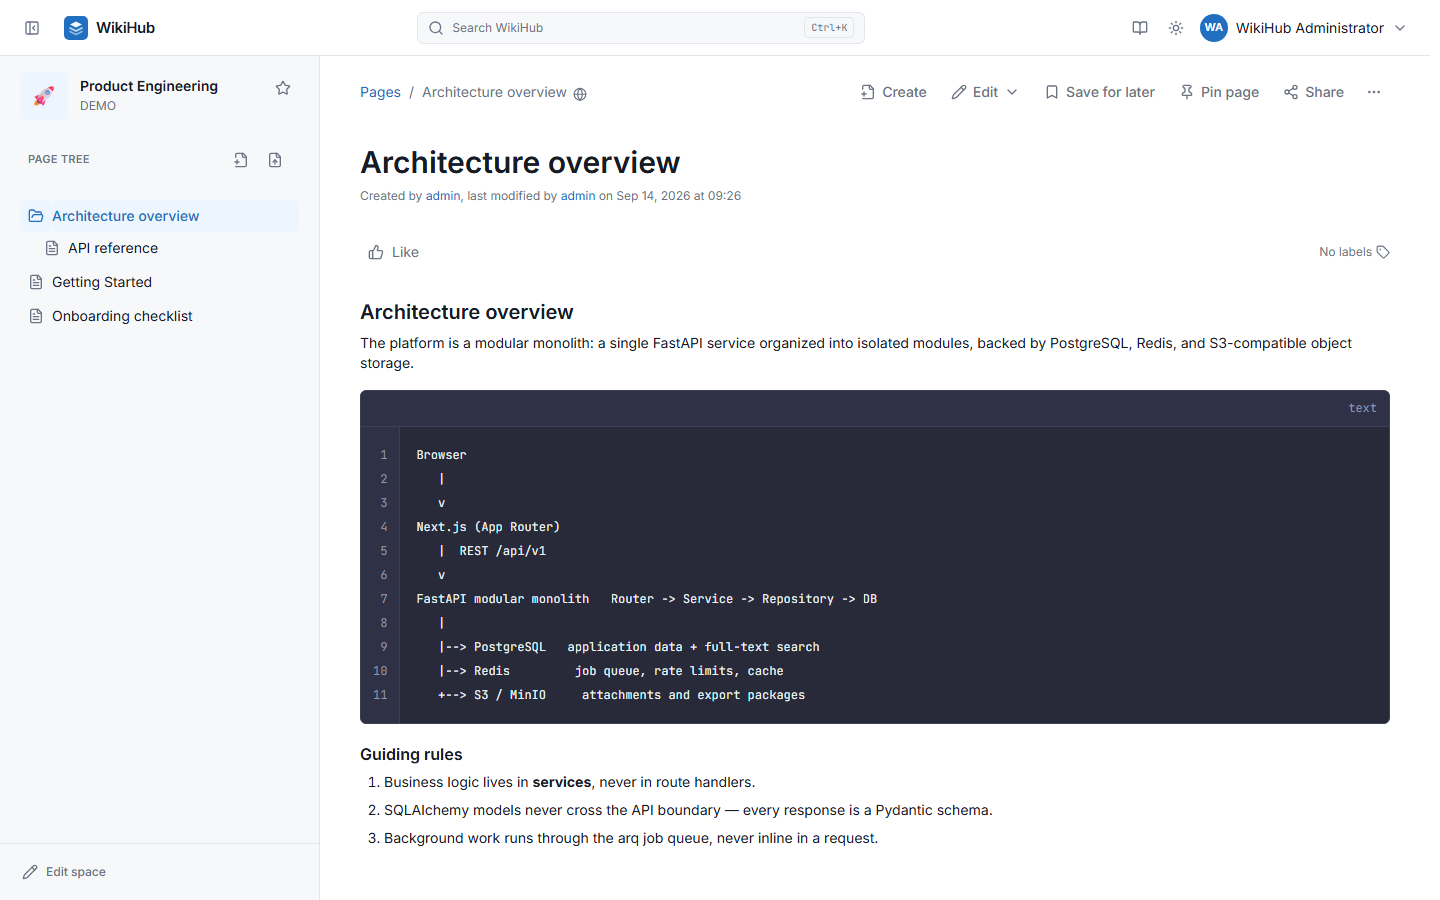
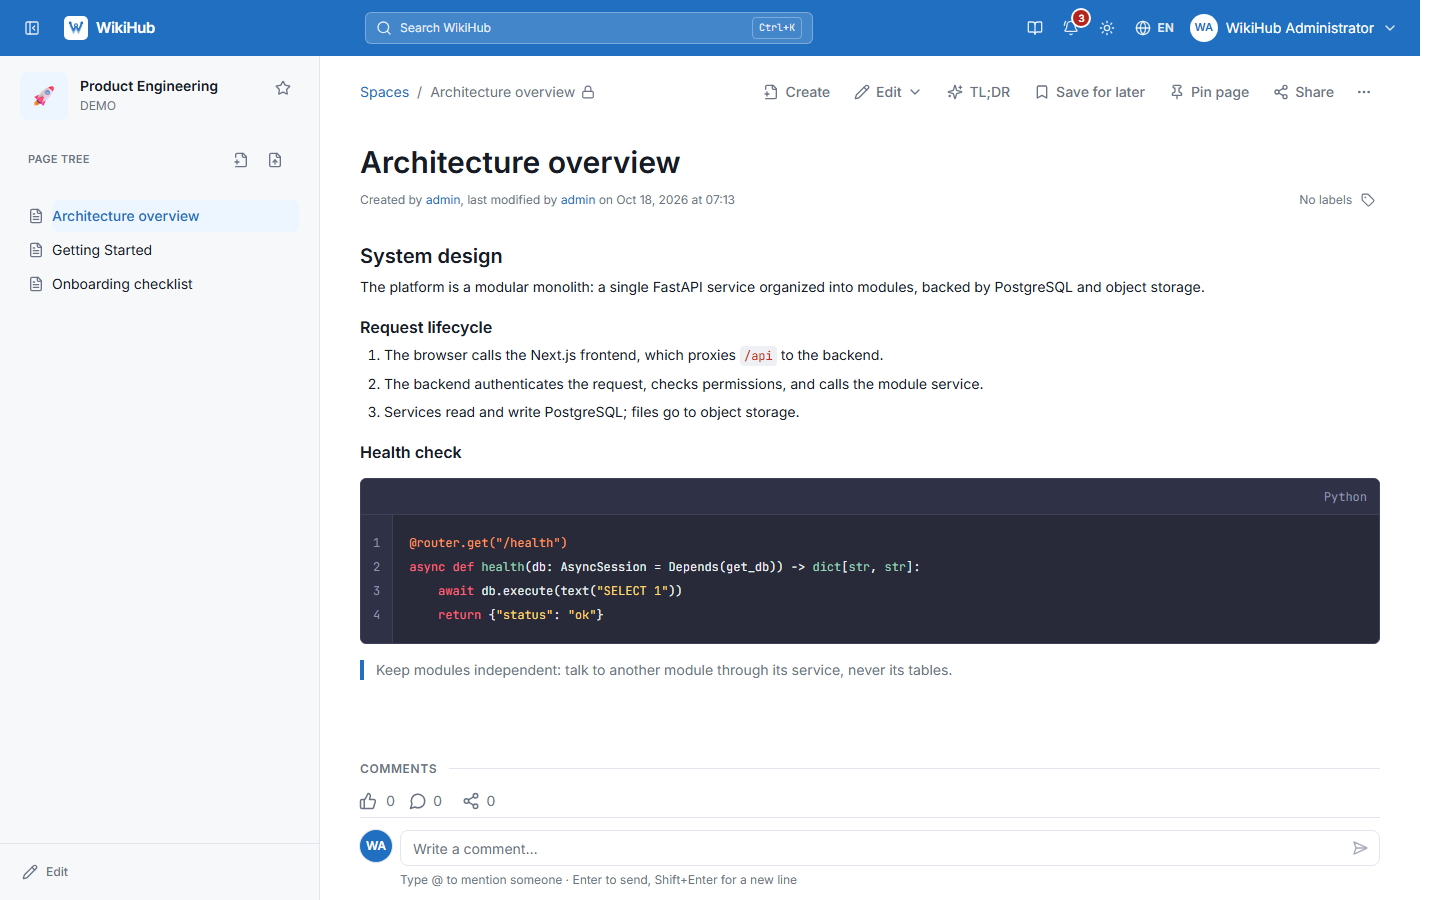
docs(demo): re-record the demo GIFs and screenshots, update both READMEs
Every capture is of the current interface, taken in a Restricted demo space.
Adds a search/commands GIF and screenshots, and a Help centre section;
the main README describes Go to shortcuts and :commands.

diff --git a/docs/demo/README.md b/docs/demo/README.md
@@ -4,147 +4,257 @@ A closer look at WikiHub than the [main README](../../README.md#-demo) has room
 for. Every image below is a real, unedited capture of a running local
 instance — nothing here is a mockup.
 
+All captures were refreshed on **18 October 2026** against the current
+interface. They were taken in a throwaway space, **Product Engineering**
+(`DEMO`), signed in as the seeded administrator, at a 1430×900 desktop window
+in light mode and English. The only thing hidden is the Next.js development
+badge, which is not part of the product. Search terms were chosen so that only
+the demo space's pages come back.
+
 - [Signing in](#signing-in)
 - [Editing a page](#editing-a-page)
 - [A page, rendered](#a-page-rendered)
 - [Code blocks](#code-blocks)
-- [Global search](#global-search)
+- [Global search, shortcuts & commands](#global-search-shortcuts--commands)
 - [Likes, pins & saved-for-later](#likes-pins--saved-for-later)
 - [Drafts & recovery](#drafts--recovery)
 - [Permissions & access control](#permissions--access-control)
+- [Help centre](#help-centre)
 - [Backup & migration](#backup--migration)
 - [Theme & branding](#theme--branding)
 - [Language switching](#language-switching)
 - [Small screens](#small-screens)
+- [AI features](#ai-features)
 
 ## Signing in
 
-<img src="assets/screenshot-login.png" alt="WikiHub sign-in screen" width="720">
+<img src="assets/screenshot-login.png" alt="The WikiHub sign-in screen: a brand-blue cover with the headline, a capture of a WikiHub page, and three features; the sign-in form on the right" width="720">
 
-The sign-in screen carries whatever brand color and logo an administrator has
-configured under **Administration → Settings → Theme & Branding** (see
-[Theme & branding](#theme--branding) below) — this is the default WikiHub Blue
-palette.
+The sign-in screen is in two halves. The cover on the left is in the
+workspace's brand colour. It holds the headline, a capture of a real WikiHub
+page (the same one shown under [A page, rendered](#a-page-rendered)), and three
+features: *Ask your wiki*, *Organised in spaces*, *Control and history*. On a
+short window the cover drops the least important text rather than scrolling,
+and on a phone only the form is shown.
+
+The form takes a username or an e-mail. **Contact an administrator** opens a
+request form for people who cannot sign in. The colour and logo follow
+**Administration → Settings → Theme & Branding** (see
+[Theme & branding](#theme--branding)); this is the default WikiHub Blue.
 
 ## Editing a page
 
-<img src="assets/demo-editor.gif" alt="The full WikiHub flow: signing in, Home, opening a space, opening a page, editing it with the slash menu, and saving" width="720">
+<img src="assets/demo-editor.gif" alt="Signing in, landing in the Product Engineering space, opening Getting Started from the page tree, choosing Edit then Normal editor, typing /callout, picking Callout: Tip, typing into it, and saving" width="720">
 
-The full path, start to finish: **sign in** → **Home** (the personal
-activity feed, on its "My activity" tab) → jump into a space via **global
-search** → open a page from its **page tree** → **Edit** → place the cursor
-at the end, type `/callout` to open the slash-command menu, pick
-**Callout**, and type into it → **Save**. The green toast in the last frame
-is the real save confirmation, not staged for the recording.
+The full path, start to finish: **sign in** (here straight into the space, via
+the `?next=` link) → open **Getting Started** from the **page tree** →
+**Edit ▾ → Normal editor** → at the end of the page type `/callout` to open the
+slash-command menu, pick **Callout: Tip**, and type into it → **Save**. The
+toast in the last frame is the real save confirmation.
 
-The same `/` menu inserts headings, tables, code blocks, images, to-do lists,
-toggles, dividers, and links to other pages — see the in-app **Help** center
-for the full command reference.
+The **Edit ▾** menu also opens the page as **Markdown source** or **HTML
+source**. While editing, the bar above the page has **Live preview**,
+**Auto-save on** (the draft is kept on the server as you type), **Save draft**,
+**Save** (marked `*` while there are unsaved changes) and **Cancel**. The same
+`/` menu inserts headings, tables, code blocks, images, to-do lists, toggles,
+dividers, and links to other pages. The in-app **Help** centre has the full
+command reference.
 
 ## A page, rendered
 
-<img src="assets/screenshot-page.png" alt="A WikiHub page showing headings, a blockquote callout, a bulleted list, and a data table" width="720">
+<img src="assets/screenshot-page.png" alt="The Getting Started page: headings, a quote, a bulleted list and a table, with the space's page tree on the left and the page actions above the title" width="720">
 
 A typical page: headings, a blockquote-style callout, a bulleted list, and a
-data table, all in the same document. The page tree on the left reflects the
-space's hierarchy — pages can be nested arbitrarily deep and moved anywhere,
-including into a different space.
+data table, all in the same document. Above the title sit the page actions:
+**Create**, **Edit ▾**, **TL;DR** (an AI summary of the page),
+**Save for later**, **Pin page**, **Share** and **⋯** for the rest (move,
+history, access, labels, attachments, export, delete). Under the title are who
+created and last changed it, and its labels. The foot of the page holds
+reactions and comments.
+
+The space's own sidebar shows its identity and its **page tree**. Pages can be
+nested arbitrarily deep and moved anywhere, including into another space. The
+padlock beside the breadcrumb says the space is Restricted.
+
+The top bar is the same on every screen: the sidebar toggle, the logo,
+**Search** (`Ctrl`+`K`), then **Help**, **Notifications** (with an unread
+count), **Theme** (light/dark), **Language** (`EN`/`VI`) and the account menu.
+When an administrator has set up the AI assistant, a chat button also appears
+there.
 
 ## Code blocks
 
-<img src="assets/screenshot-architecture.png" alt="A page with a syntax-highlighted code block describing the system architecture" width="720">
+<img src="assets/screenshot-architecture.png" alt="The Architecture overview page with a numbered list and a Python code block with syntax highlighting, line numbers and a language label" width="720">
 
 Code blocks get syntax highlighting, line numbers, a language label, and a
-one-click copy button — useful for runbooks, architecture notes, and anything
+one-click copy button. That suits runbooks, architecture notes, and anything
 else that mixes prose with real code or config.
 
-## Global search
+## Global search, shortcuts & commands
 
-<img src="assets/screenshot-search.png" alt="The global search modal, opened with Ctrl+K, showing matching pages with highlighted terms" width="720">
+<img src="assets/demo-search.gif" alt="Opening search with Ctrl+K, searching for onboarding, typing keyboard shortcuts to get a Go to shortcut, typing : to list commands, then :help change password to search the Help guides and open one" width="720">
 
-`Ctrl`/`⌘` + `K` from anywhere in the app opens global search. It matches
-against space names/keys/descriptions and page titles/content, highlights the
-matched term in context, and only ever shows results the signed-in user has
-permission to see.
+`Ctrl`/`⌘`+`K` from anywhere in the app opens one search box that does three
+things.
+
+**Find spaces and pages.** It matches space names, keys and descriptions, and
+page titles and content. The matched words are highlighted, and only results
+the signed-in user may see are listed. Accents are optional (`tai khoan` finds
+*tài khoản*), and common English/Vietnamese pairs count as the same word.
+
+<img src="assets/screenshot-search.png" alt="Search for onboarding: one space and three pages from the demo space, with the matched word highlighted" width="720">
+
+**Go to a place in the app.** The words people use for a task bring up a
+**Go to** section above the results: *change password* or *đổi mật khẩu* opens
+the password form in your account, *manage users* opens Administration →
+Users, *keyboard shortcuts* opens the shortcut settings. Administration
+shortcuts appear only for accounts that may open them.
+
+<img src="assets/screenshot-search-goto.png" alt="Search for keyboard shortcuts: a Go to section with a single Keyboard shortcuts entry" width="720">
+
+**Run a command.** Starting with `:` turns the box into a command list, and the
+wiki is not searched:
+
+| Command | What it does |
+| --- | --- |
+| `:help` | Open the Help centre; `:help <words>` searches the Help guides |
+| `:account`, `:password`, `:security`, `:sessions`, `:shortcuts` | Open that part of your account (`:password` opens the form directly) |
+| `:home`, `:spaces`, `:recent`, `:favorites`, `:saved`, `:issues`, `:contact` | Open that page |
+| `:chat` | Open the AI chat panel |
+| `:ask <question>` | Ask the AI and read the answer in the search box |
+| `:users`, `:groups`, `:manage-spaces`, `:manage-issues`, `:stats`, `:server`, `:settings`, `:backup`, `:storage`, `:mail`, `:ai` | Administration pages, for those who may open them |
+
+The first letters are enough (`:he` finds `:help`). `:chat` and `:ask` stay in
+the list while the AI assistant is off, greyed out and marked as turned off.
+
+<img src="assets/screenshot-search-help.png" alt="Search for :help change password: the Help command, then Help guides led by Profile, Password Security and Active Sessions" width="720">
+
+With an AI endpoint configured, the box also offers **Ask AI** for any question
+(`Ctrl`+`Enter`). See [AI features](#ai-features).
 
 ## Likes, pins & saved-for-later
 
-<img src="assets/demo-knowledge.gif" alt="Liking a page, saving it for later, and pinning it to the sidebar, each with its own confirmation toast" width="720">
+<img src="assets/demo-knowledge.gif" alt="Liking the Architecture overview page, saving it for later with a confirmation toast, and pinning it" width="720">
 
 Three lightweight, independent ways to keep track of pages that matter:
 
-- **Like** flags a page as useful — the count is visible to everyone.
-- **Save for later** bookmarks a page for yourself; everything you've saved
-  is listed at `/saved`. This one lives in your browser, not your account.
-- **Pin page** adds it to **Pinned pages** in the space sidebar, so it's one
-  click away every time you open that space.
+- **Like** (the thumb at the foot of the page) flags a page as useful. The count
+  is visible to everyone, and clicking it shows who liked it.
+- **Save for later** bookmarks a page for yourself. Everything you've saved is
+  listed at `/saved`. This one lives in your browser, not your account.
+- **Pin page** adds it to **Pinned pages** in the main sidebar, one click away
+  from anywhere. **Manage sidebar** chooses which pins and favourite spaces show
+  there.
 
 ## Drafts & recovery
 
-<img src="assets/screenshot-draft.png" alt="A page showing the Draft not released banner, offering to open the editor or discard the draft" width="720">
+<img src="assets/screenshot-draft.png" alt="The Onboarding checklist page with a Draft not released banner offering Open editor or Discard draft" width="720">
 
 Publishing a page and merely having unsaved changes are two different things.
 While editing, an auto-saved draft is kept on the server separately from the
-published content — if you navigate away or close the tab before hitting
-**Save**, coming back to the page shows this banner instead of silently
-losing the edit: **Open editor** resumes exactly where you left off, or
-**Discard draft** throws it away and keeps the page as currently published.
+published content. If you navigate away or close the tab before hitting
+**Save**, coming back to the page shows this banner, with the date the draft
+was last saved, instead of silently losing the edit. **Open editor** resumes
+exactly where you left off; **Discard draft** throws it away and keeps the
+page as published. If the page has changed since the draft began, the banner
+says so.
 
 ## Permissions & access control
 
-<img src="assets/screenshot-permissions.png" alt="The Page access dialog, showing General access set to Open and per-group and per-user View/Edit tables" width="720">
+<img src="assets/screenshot-permissions.png" alt="The Page access dialog for Architecture overview: General access set to Open, an empty group table, and a user table listing the administrator with View and Edit" width="720">
 
 Access can be scoped at the space level or narrowed further on a single page.
-**Page access** shows **General access** (Open or Restricted) plus exactly
-which groups and users can view or edit *this* page — Restricted starts from
-an empty allow-list you build up by adding specific people or groups, and
-view restrictions inherit down to child pages. The same model, with the full
-permission set (`View`, `Add/Edit`, `Delete`, `Delete own`, `Restrictions`,
-`Move`, `Admin`), applies at the space level under
-**Administration → Spaces → *space* → Access**, which also has an
-**Effective permissions** checker that resolves exactly what any one person
-can do without cross-referencing groups by hand.
+**⋯ → Page access** shows **General access** (Open or Restricted) plus exactly
+which groups and users can view or edit *this* page. Restricted starts from an
+empty allow-list you build up by adding specific people or groups, and View
+and Edit restrictions inherit down to child pages. **Reset to default** clears
+the page's own allow-list or blocks, after a confirmation. The demo space is Restricted with no groups, so
+only its owner is listed here.
+
+The same model applies at the space level, with the full permission set
+(`View`, `Add/Edit`, `Delete`, `Delete own`, `Restrictions`, `Move`, `Admin`).
+It lives under the space's **Edit** (bottom of its sidebar) or
+**Administration → Spaces**, which also has an **Effective permissions**
+checker. It resolves exactly what any one person can do without
+cross-referencing groups by hand. The foot of every page says how many users
+and groups can actually read it.
+
+## Help centre
+
+<img src="assets/screenshot-help.png" alt="The Help centre: How can we help, a search box with an Ask AI button, suggested questions, and Start here guides" width="720">
+
+`/help` (the book icon in the top bar, or `:help`) holds the user guide, in
+English and Vietnamese. The search box lists matching guides as you type, in
+either language and with accents optional. With the AI assistant on,
+**Ask AI** answers a whole question from the guides and names the ones to
+open; with it off, the button is disabled. **Start here** lists the guides most
+people need first, then **Browse by topic** groups the rest. Each guide has its
+own page with a navigation of every topic and *Previous* / *Next*.
 
 ## Backup & migration
 
-<img src="assets/screenshot-backup.png" alt="The Administration Backup panel, showing a WikiHub backup export, a Confluence Data Center export in progress, and the automatic backups schedule" width="720">
+<img src="assets/screenshot-backup.png" alt="Administration, Backup and migration: Export WikiHub Backup, Export Confluence Backup marked coming soon, and the Automatic backups schedule" width="720">
 
-Two export formats, side by side: a native **WikiHub Backup** `.zip` that can
-restore WikiHub itself, and a **Confluence Backup** XML archive for handing
-content off to a real Confluence Data Center instance (one-way — it cannot
-restore WikiHub). Both run as trackable background jobs with a live progress
-bar and a cancel button. Below them, **Automatic backups** runs a recurring
-WikiHub backup on a schedule with no one needing to click anything.
+**Export / Backup** offers two formats side by side. A native **WikiHub
+Backup** `.zip` restores WikiHub itself. A **Confluence Backup** XML archive
+hands content off to a Confluence Data Center instance (one-way; it cannot
+restore WikiHub). That export is switched off for now and marked
+*Coming soon*. Below them, **Automatic backups** runs a recurring WikiHub
+backup on a schedule (every *n* days at a start time and time zone, keeping a
+set number), with **Run now**, **Run history** and an on/off switch.
+**Import / Restore** restores a WikiHub backup or imports a Confluence export
+with a live progress report.
 
 ## Theme & branding
 
-<img src="assets/screenshot-theme.png" alt="The Administration theme and branding settings panel, showing color presets, a custom hex picker, and logo icon presets" width="720">
+<img src="assets/screenshot-theme.png" alt="Administration, Instance settings, Theme and Branding: brand colour presets, a custom hex colour, and logo icon presets" width="720">
 
-Administrators can pick a curated color palette or a custom hex color, choose
-a logo preset or upload a custom one, and preview both light and dark mode
-before saving — changes apply instantly across the whole workspace once saved.
+**Administration → Settings → Theme & Branding**: pick a curated colour palette
+or a custom hex colour, choose a logo preset or upload your own image or SVG,
+and pick the default page typeface. **Preview Theme** shows the result before
+**Save Theme** applies it to the whole workspace. A value marked *Inherited
+from environment* comes from the server's configuration until it is changed
+here. The other sections are **General & Sessions** and **Sidebar access**.
 
 ## Language switching
 
-<img src="assets/screenshot-language.png" alt="The language dropdown in the top bar, open, showing English and Tiếng Việt with the active language checked" width="720">
+<img src="assets/screenshot-language.png" alt="The language menu in the top bar, open, with English checked and Tiếng Việt" width="460">
 
-The **EN**/**VI** badge in the top bar switches the whole interface between
-English and Vietnamese — every label, button, toast, and validation message
+The **EN**/**VI** button in the top bar switches the whole interface between
+English and Vietnamese. Every label, button, toast, and validation message
 comes from the same translation dictionary, so nothing is left half-translated.
 The choice is per-browser (cookie + `localStorage`, no account setting or
-server round-trip) and applies instantly, without a page reload — anything
+server round-trip) and applies instantly, without a page reload. Anything
 mid-edit in the page editor survives the switch untouched.
 
 ## Small screens
 
-<img src="assets/demo-mobile.gif" alt="The same sign-in-to-save flow in WikiHub at a Samsung Galaxy S23 Ultra-class phone width" width="380">
+<img src="assets/demo-mobile.gif" alt="At phone width: signing in, opening Onboarding checklist from the page tree, choosing Edit then Normal editor, typing a line at the end, and saving" width="300">
 
-The exact same sign-in → Home → space → page → edit → save flow as
-[Editing a page](#editing-a-page) above, at a real phone width (360×780,
-Galaxy S24 - the closest class Playwright ships a device preset for to a
-Galaxy S23 Ultra) rather than a scaled-down desktop layout. The space's own
-page tree doesn't get an off-canvas drawer at this width yet, so it stays
-visible above the page content instead of tucking behind a menu button.
+The same sign-in → space → page → edit → save flow at a real phone width
+(360×780, Playwright's *Galaxy S24* preset) rather than a scaled-down desktop
+layout. The sign-in cover is left out, and the editor's toolbar keeps the basic
+formatting buttons and puts the rest behind **⋯**.
+The space's page tree has no off-canvas drawer at this width yet, so it stays
+above the page content instead of tucking behind a menu button. The account
+avatar is cut off at the right edge of the top bar at this width.
+
+## AI features
+
+The AI assistant is optional and uses an OpenAI-compatible endpoint that an
+administrator connects under **Administration → AI assistant**. The instance
+these captures came from has no endpoint connected, so there are no captures of
+AI answers here; showing invented ones would defeat the point of this page.
+Without an endpoint every AI control stays visible and says it is not set up,
+which is what the greyed **Ask AI** button in the [Help centre](#help-centre)
+shows.
+
+What the assistant does is described in the
+[main README](../../README.md#-key-features) and in the in-app Help centre:
+TL;DR summaries, *Create page with AI*, explaining and translating a
+selection, writing in the editor, labels and related pages, **Ask AI** from
+search, the chat panel (which knows your account and the Help guides, and can
+carry out confirmed actions), optional web search, and semantic search.
 
 ---
 

diff --git a/README.md b/README.md
@@ -25,7 +25,8 @@ If WikiHub is useful to you, a ⭐ on the repo helps other teams find it.
 
 > **Status: the core platform is built and in daily use** — Spaces, Pages, full
 > revision history, authentication & RBAC, the rich editor, attachments,
-> search, and Confluence import/export are all shipped. See
+> search, Confluence import/export, and the optional AI assistant are all
+> shipped. See
 > [Roadmap](#-roadmap) for what's still open.
 
 </div>
@@ -81,17 +82,24 @@ unformatted text.
 
 <div align="center">
 
-<img src="docs/demo/assets/demo-editor.gif" alt="Sign in, open Home, jump into a space, open a page, edit it with the slash menu, and save — end to end" width="700">
+<img src="docs/demo/assets/demo-editor.gif" alt="Sign in, land in a space, open a page from the page tree, edit it with the slash menu, and save — end to end" width="700">
 
-<sub>Sign in → Home → space → page → edit with the <code>/</code> slash menu → save, end to end.</sub>
+<sub>Sign in → space → page → edit with the <code>/</code> slash menu → save, end to end.</sub>
 
 <br>
 
-<img src="docs/demo/assets/demo-mobile.gif" alt="The same sign-in-to-save flow at a Samsung Galaxy-class phone width" width="220">
+<img src="docs/demo/assets/demo-search.gif" alt="Ctrl+K search: finding pages, a Go to shortcut for keyboard shortcuts, the : command list, and :help searching the Help guides" width="700">
+
+<sub><code>Ctrl</code>+<code>K</code>: find pages, jump to a place in the app, or run a <code>:command</code> such as <code>:help change password</code>.</sub>
+
+<br>
+
+<img src="docs/demo/assets/demo-mobile.gif" alt="The same sign-in-to-save flow at a Galaxy S24-class phone width" width="220">
 
 <sub>The same flow at phone width — see <a href="docs/demo#small-screens">docs/demo</a> for details.</sub>
 
 **Full walkthrough with screenshots of every feature: [`docs/demo`](docs/demo).**
+All captures are of the current interface, taken on 18 October 2026.
 
 </div>
 
@@ -149,8 +157,14 @@ unformatted text.
   parent's access and customise it, or keep inheriting and narrow further with a
   page's own list. The foot of every page says how many users and groups can
   actually read it (or *all*, when nothing narrows it).
-- **Full-text search** — one `Ctrl`/`⌘`+`K` search across every space and page you
-  have permission to see.
+- **Search, shortcuts & commands** — one `Ctrl`/`⌘`+`K` box across every space and
+  page you have permission to see (accents optional, English/Vietnamese word pairs
+  matched). It also lists places in the app under **Go to** (*change password* opens
+  your account's password form, *manage users* opens Administration → Users, only for
+  those allowed), and starting with `:` runs a command: `:help <words>` searches the
+  Help guides, `:account`, `:password`, `:users`, `:settings`, `:chat`,
+  `:ask <question>` and more. AI commands stay listed but disabled while the
+  assistant is off.
 - **Theming & branding** — curated color palettes or a custom hex color, logo
   presets or a custom upload, and a live preview before anything goes live.
 - **English & Vietnamese UI** — a top-bar language switch translates the whole
@@ -604,7 +618,7 @@ now — is [`TODO`](TODO).
 
 | Document | Contents |
 |---|---|
-| [`docs/demo/`](docs/demo) | Full feature tour with screenshots and a demo GIF |
+| [`docs/demo/`](docs/demo) | Full feature tour with screenshots and demo GIFs |
 | [`docs/architecture.md`](docs/architecture.md) | System design and module layout |
 | [`docs/development.md`](docs/development.md) | Day-to-day workflow and conventions |
 | [`docs/design-system.md`](docs/design-system.md) | Visual language and layout tokens |
